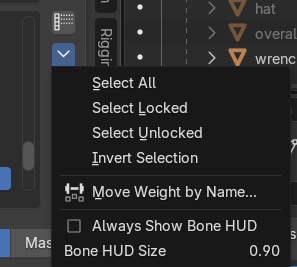
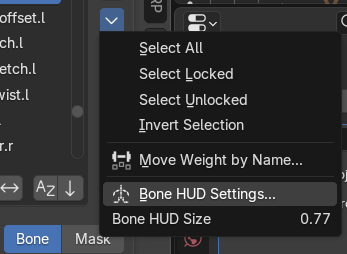
Reorganize Paint Weight Tools page and show shortcuts as keys
- Paint Weight Tools: regroup into Quick Start, General Tools, Brush Mode
  Tools and Vertex Mode Tools; add weight sliders, Keep Volume, brush
  falloff, Connected Only and vertex gesture sections; show mouse/key
  shortcuts as <kbd> keys; grammar fixes.
- Bone Picker: caption for the Bone Size / bone color / HUD options and
  updated screenshot.
- Release Notes: reword the 1.2.0 weight steps caption.

diff --git a/docs/edit_tools.md b/docs/edit_tools.md
@@ -1,55 +1,71 @@
-# Paint Weight Tools
+# Quick Start
 
 <figure markdown>
 ![Edit Tools](assets/images/apply_weights.png) 
+  <figcaption>
+    Brush Mode and Vertex Selection Mode have different available tools.
+  </figcaption>
 </figure>
 
-
-
-
-
-<br>
-- - -
-<br>
-
-# Weight Apply
-
-In this video, you'll learn how to apply all weight operations using both brush painting and vertex selection.
-
-<div style="position: relative; padding-bottom: 56.25%; height: 0; overflow: hidden; max-width: 100%; margin-bottom: 1.5rem;">
-  <iframe 
-    src="https://www.youtube.com/embed/n2bP1M5w_TI" 
-    style="position: absolute; top: 0; left: 0; width: 100%; height: 100%; border: 0;" 
-    allow="accelerometer; autoplay; clipboard-write; encrypted-media; gyroscope; picture-in-picture; web-share" 
-    allowfullscreen>
-  </iframe>
-</div>
+<figure style="margin-bottom: 1.5rem;">
+  <div style="position: relative; padding-bottom: 56.25%; height: 0; overflow: hidden; max-width: 100%;">
+    <iframe 
+      src="https://www.youtube.com/embed/n2bP1M5w_TI" 
+      style="position: absolute; top: 0; left: 0; width: 100%; height: 100%; border: 0;" 
+      allow="accelerometer; autoplay; clipboard-write; encrypted-media; gyroscope; picture-in-picture; web-share" 
+      allowfullscreen>
+    </iframe>
+  </div>
+  <figcaption>
+    In this video, you'll learn how to apply all weight operations using both brush painting and vertex selection.
+  </figcaption>
+</figure>
 
 <br>
 - - -
 <br>
 
-# Mirror Weight
+# General Tools
+
+#### Weight Operation Sliders
 
 <figure markdown>
-![Edit Tools](assets/images/mirror_weight.png) 
+  ![Orbit fix](assets/images/1_2_panel_slider.png)
+  <figcaption>Used for adjusting weights and quickly flooding values to selected areas.</figcaption>
 </figure>
 
-* **Target Side:** Specifies the target side for mirroring (can be identified via the viewport HUD—the blue plane indicates the target side).
-* **Mirror Target Data:** Sets whether to mirror only the Layer Mask or the Bone Weight (both by default).
-* **Use Custom Mapping Keywords (Optional):** Allows you to [add custom left and right side keywords](https://youtu.be/3bBY6CPEP9I?t=62) for rigs with non-standard naming conventions. For most general users, there is no need to configure this setting.
+**Add Weight**
 
-!!! note "Multiple Layers"
-    You can [select multiple layers](https://youtu.be/D3-zaYN3omA?t=402) to apply mirror weights across all of them.
+- Increases weight strength.
+- **Range:** 0.001 – 1.0
 
-!!! note "Selected Vertices"
-    If you have selected vertices while mirroring, the mirror will only apply to the selected vertices.
+**Scale Weight**
+
+- Decreases weight by multiplying it (lower = reduces more, higher = reduces less).
+- **Range:** 0.0 – 0.999
+
+**Smooth Weight**
+
+- Blends weights smoothly.
+- **Range:** 0.001 – 1.0 (can go up to 100)
+
+**Sharpen Weight**
+
+- Sharpens weight edges.
+- **Range:** 0.001 – 1.0
+
+!!! note
+    If no vertices are selected, flooding will apply to the entire mesh.
+
+<figure markdown>
+  ![Orbit fix](assets/images/1_2_subtle_value_steps.gif)
+  <figcaption>Use weight step buttons to smoothly increase or decrease weight values. This makes weights easier to control and perfectly fits the feel of each weight operation.</figcaption>
+</figure>
 
 <br>
-- - -
-<br>
 
-# Block Weight
+
+#### Block Weight
 
 <figure markdown>
 ![Deform Bone List](assets/images/auto_block_weight.gif)
@@ -67,10 +83,159 @@ Automatically calculates weights from the selected bones as follows:
     When this option is checked, Block Weight follows the mesh's edge loops more closely. Watch the [Face Rings example](https://youtu.be/D3-zaYN3omA?t=135).
 
 <br>
+
+
+#### Mirror Weight
+
+<figure markdown>
+![Edit Tools](assets/images/mirror_weight.png) 
+</figure>
+
+* **Target Side:** Specifies the target side for mirroring (can be identified via the viewport HUD—the blue plane indicates the target side).
+* **Mirror Target Data:** Sets whether to mirror only the Layer Mask or the Bone Weight (both by default).
+* **Use Custom Mapping Keywords (Optional):** Allows you to [add custom left and right side keywords](https://youtu.be/3bBY6CPEP9I?t=62) for rigs with non-standard naming conventions. For most general users, there is no need to configure this setting.
+
+!!! note "Multiple Layers"
+    You can [select multiple layers](https://youtu.be/D3-zaYN3omA?t=402) to apply mirror weights across all of them.
+
+!!! note "Selected Vertices"
+    If you have selected vertices while mirroring, the mirror will only apply to the selected vertices.
+
+<br>
+
+
+#### Copy Weight
+
+Copy weights from the active vertex group to the clipboard.
+
+Steps:
+
+1. Copy or Cut: Copy or cut the weights from the current vertex group.
+2. Paste: Select the target bone or layer mask, then paste the weights (choose between Add, Replace, or Subtract).
+
+!!! note
+    You can copy and paste across bone and mask modes.
+
+<br>
+
+
+#### Multi-Color Preview
+
+While in Bone Mode, press <kbd>Alt</kbd> + <kbd>3</kbd> to toggle Multi-Color Preview.
+
+!!! note
+    Multi-Color mode may impact performance.
+
+<br>
+
+
+#### Keep Volume
+
+<figure markdown>
+  ![Orbit fix](assets/images/1_2_volume2.gif)
+  <figcaption>When Keep Volume is enabled, it automatically maintains mesh distance and seamlessly connects separated seams. Ideal for clothing or multi-part meshes.</figcaption>
+</figure>
+
+<figure markdown>
+  ![Orbit fix](assets/images/1_2_volume3.gif)
+  <figcaption>Keep Volume works in all modes—whether you are using brush paint, vertex selection, or clicking flood weight from the N-panel.</figcaption>
+</figure>
+
+<figure markdown>
+  ![Orbit fix](assets/images/1_2_volume4.gif)
+  <figcaption>When Keep Volume is enabled in vertex mode, you can select vertices across connected seams as if they were a single mesh.</figcaption>
+</figure>
+
+<br>
 - - -
 <br>
 
-# Self Transfer
+
+# Brush Mode Tools
+
+#### Brush Shortcut
+
+<figure markdown>
+  ![Orbit fix](assets/images/brush_paint.gif)
+</figure>
+
+
+
+
+#### Brush Options
+
+<figure markdown>
+  ![Orbit fix](assets/images/1_2_popup_brush.png)
+  <figcaption>Brush Mode - <kbd>Right Click</kbd> Popup Option</figcaption>
+</figure>
+
+<br>
+
+#### Brush Falloff
+<figure markdown>
+  ![Faloff Preset](assets/images/falloff.png)
+  <figcaption>You can change the falloff type for the surface brush and projected brush. There are 3 presets: constant, smooth, and linear.</figcaption>
+</figure>
+
+<br>
+
+
+#### Connected Only Option for Brush
+Check the "Connected Only" option to limit weight painting to connected surface parts only.
+
+<figure markdown>
+  ![Orbit fix](assets/images/1_2_projected_enable_connected_only.gif)
+</figure>
+
+<figure markdown>
+  ![Orbit fix](assets/images/1_2_surface_enable_connected.gif)
+</figure>
+
+<br>
+
+- - - 
+
+<br>
+
+# Vertex Mode Tools
+
+#### Vertex Paint Weight Gesture
+
+<figure markdown>
+  ![Orbit fix](assets/images/ScaleWeight.gif)
+  <figcaption>Hold <kbd>Alt</kbd> + <kbd>Left Click</kbd> and drag left to Scale Weight</figcaption>
+</figure>
+
+<figure markdown>
+  ![Orbit fix](assets/images/AddWeight.gif)
+  <figcaption>Hold <kbd>Alt</kbd> + <kbd>Left Click</kbd> and drag right to Add Weight</figcaption>
+</figure>
+
+<figure markdown>
+  ![Orbit fix](assets/images/SharpenWeight.gif)
+  <figcaption>Hold <kbd>Alt</kbd> + <kbd>Right Click</kbd> and drag left to Sharpen Weight</figcaption>
+</figure>
+
+<figure markdown>
+  ![Orbit fix](assets/images/SmoothWeight.gif)
+  <figcaption>Hold <kbd>Alt</kbd> + <kbd>Right Click</kbd> and drag right to Smooth Weight</figcaption>
+</figure>
+
+!!! note
+    If no vertices are selected, this will apply to the entire mesh.
+
+<br>
+
+#### Vertex Options
+
+<figure markdown>
+  ![Orbit fix](assets/images/1_2_popup_vertex.png)
+  <figcaption>Vertex Mode - <kbd>Right Click</kbd> Popup Option</figcaption>
+</figure>
+
+<br>
+
+#### Self Transfer
 
 <figure markdown>
 ![Deform Bone List](assets/images/self_transfer.gif)
@@ -85,10 +250,9 @@ Transfers weight from a Vertex within the same Mesh , as follows:
     The transfer operation affects both bone and mask data of the active layer.
 
 <br>
-- - -
-<br>
 
-# Copy Vertex Weight
+
+#### Copy Vertex Weight
 
 Copy the weight values of a selected vertex to the clipboard.
 
@@ -101,40 +265,12 @@ Steps:
     You can copy and paste across bone and mask modes.
 
 <br>
-- - -
-<br>
 
-# Copy Weight
 
-Copy weights from the active vertex group to the clipboard.
-
-Steps:
-
-1. Copy or Cut: Copy or cut the weights from the current vertex group.
-2. Paste: Select the target bone or layer mask, then paste the weights (choose between Add, Replace, or Subtract).
-
-!!! note
-    You can copy and paste across bone and mask modes.
-
-<br>
-- - -
-<br>
-
-# Hammer Weight
+#### Hammer Weight
 
 Click the Hammer button to hammer selected vertices to average their weights.
 
 <figure markdown>
 ![Edit Tools](assets/images/hammer_weight.gif) 
 </figure>
-
-<br>
-- - -
-<br>
-
-# Multi-Color Preview
-
-Press <kbd>Alt</kbd> + <kbd>3</kbd> to toggle Multi-Color Preview.
-
-!!! note
-    Multi-Color mode may impact performance.

diff --git a/docs/release_notes.md b/docs/release_notes.md
@@ -93,7 +93,7 @@ You can now check the "Connected Only" option. This limits your weight painting 
 
 <figure markdown>
   ![Orbit fix](assets/images/1_2_subtle_value_steps.gif)
-  <figcaption>When increasing weight steps using add weight, values go up smoothly. This makes weights easy to control, prevents values from blowing up, and fits the style of each weight operation.</figcaption>
+  <figcaption>Use weight step buttons to smoothly increase or decrease weight values. This makes weights easier to control and perfectly fits the feel of each weight operation.</figcaption>
 </figure>
 
 #### - Refine Slider Pop-up UI

diff --git a/docs/bone_picker.md b/docs/bone_picker.md
@@ -39,6 +39,7 @@ While in Bone Picker mode, you have these additional shortcuts:
 
 <figure markdown>
 ![Deform Bone List](assets/images/bone_size_hud.png)
+    <figcaption><b>You can now adjust the Bone Size, change the bone color, and toggle Always Show Bone HUD via the More button beside the Deform Bone List.</b></figcaption>
+
 </figure>
 
-You can now adjust the Bone Size and toggle Always Show Bone HUD via the More button beside the Deform Bone List.
